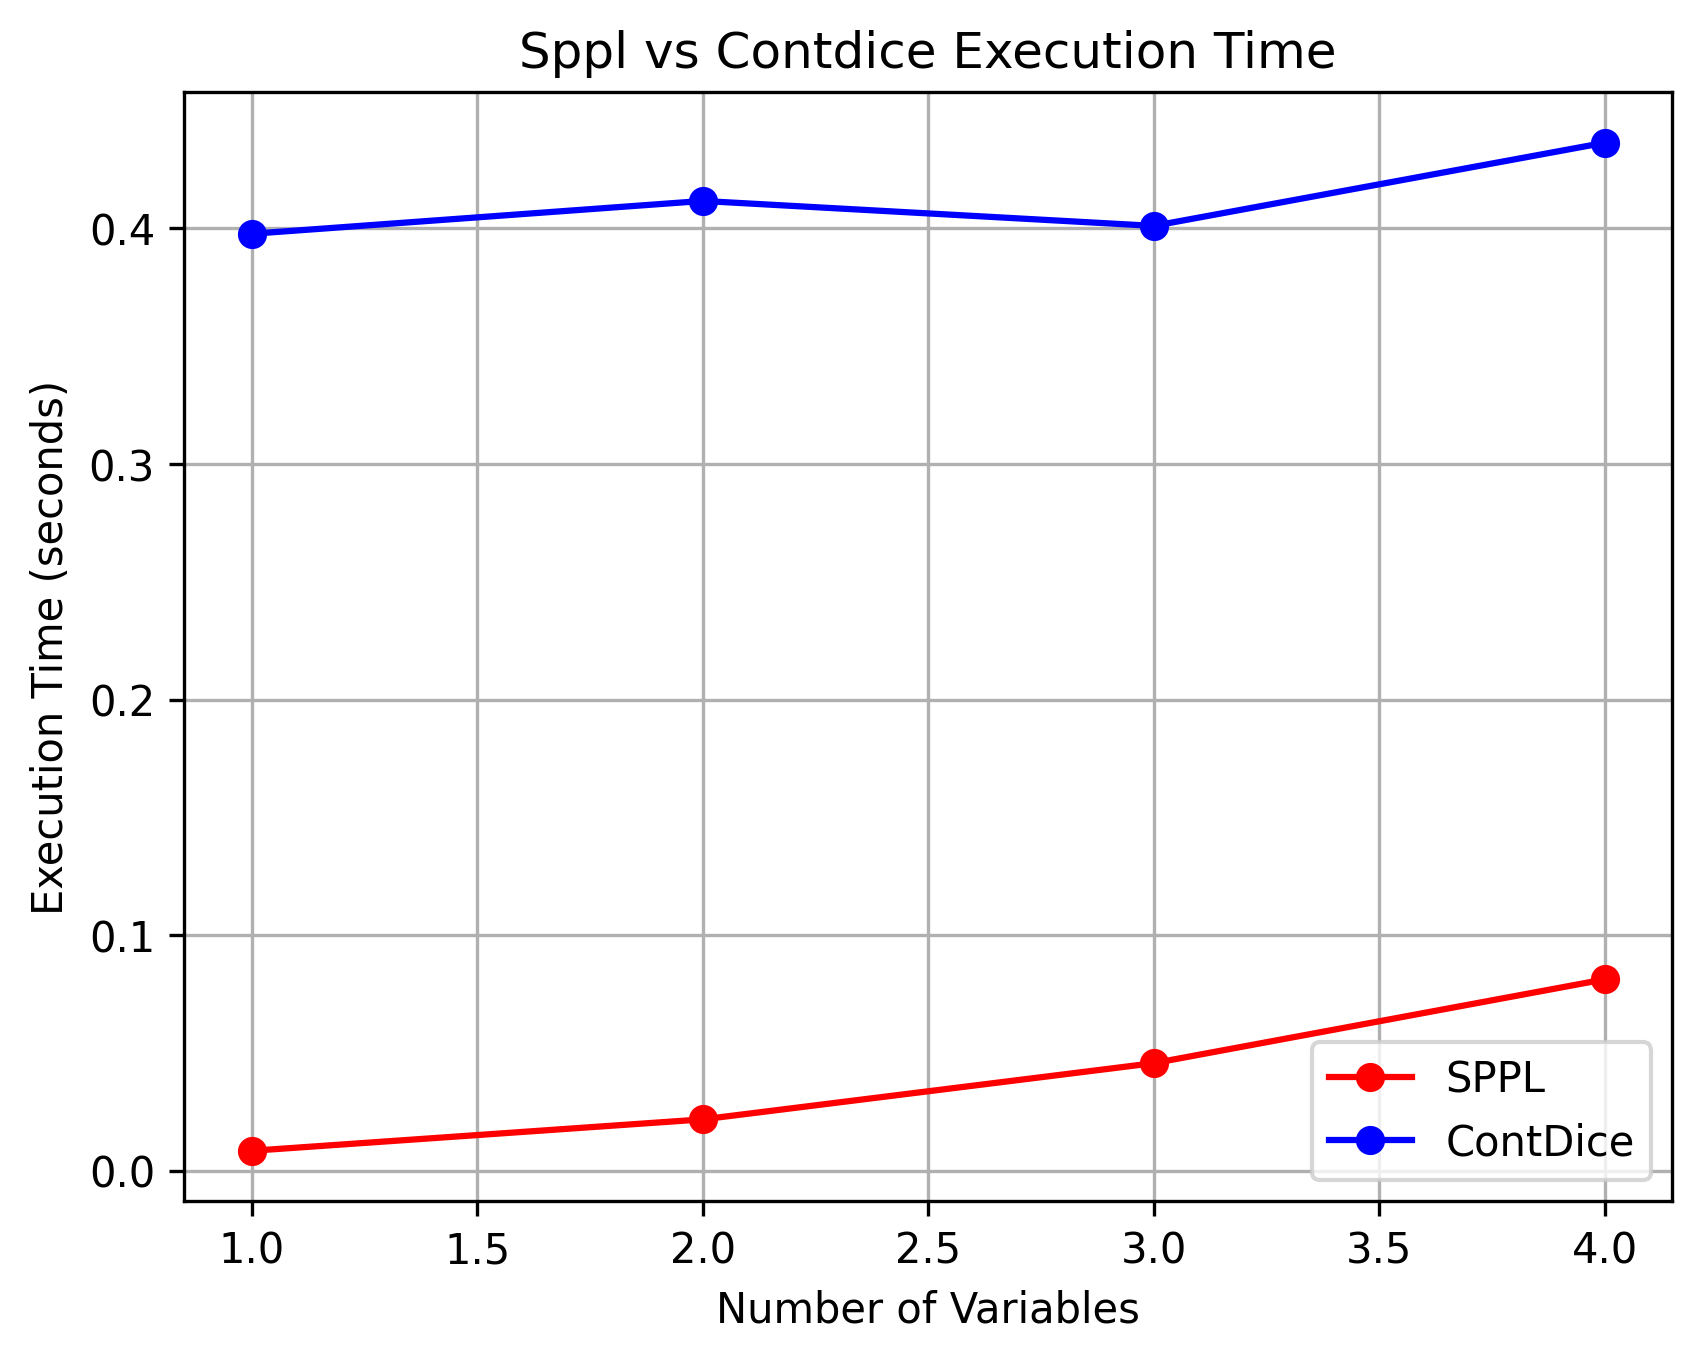
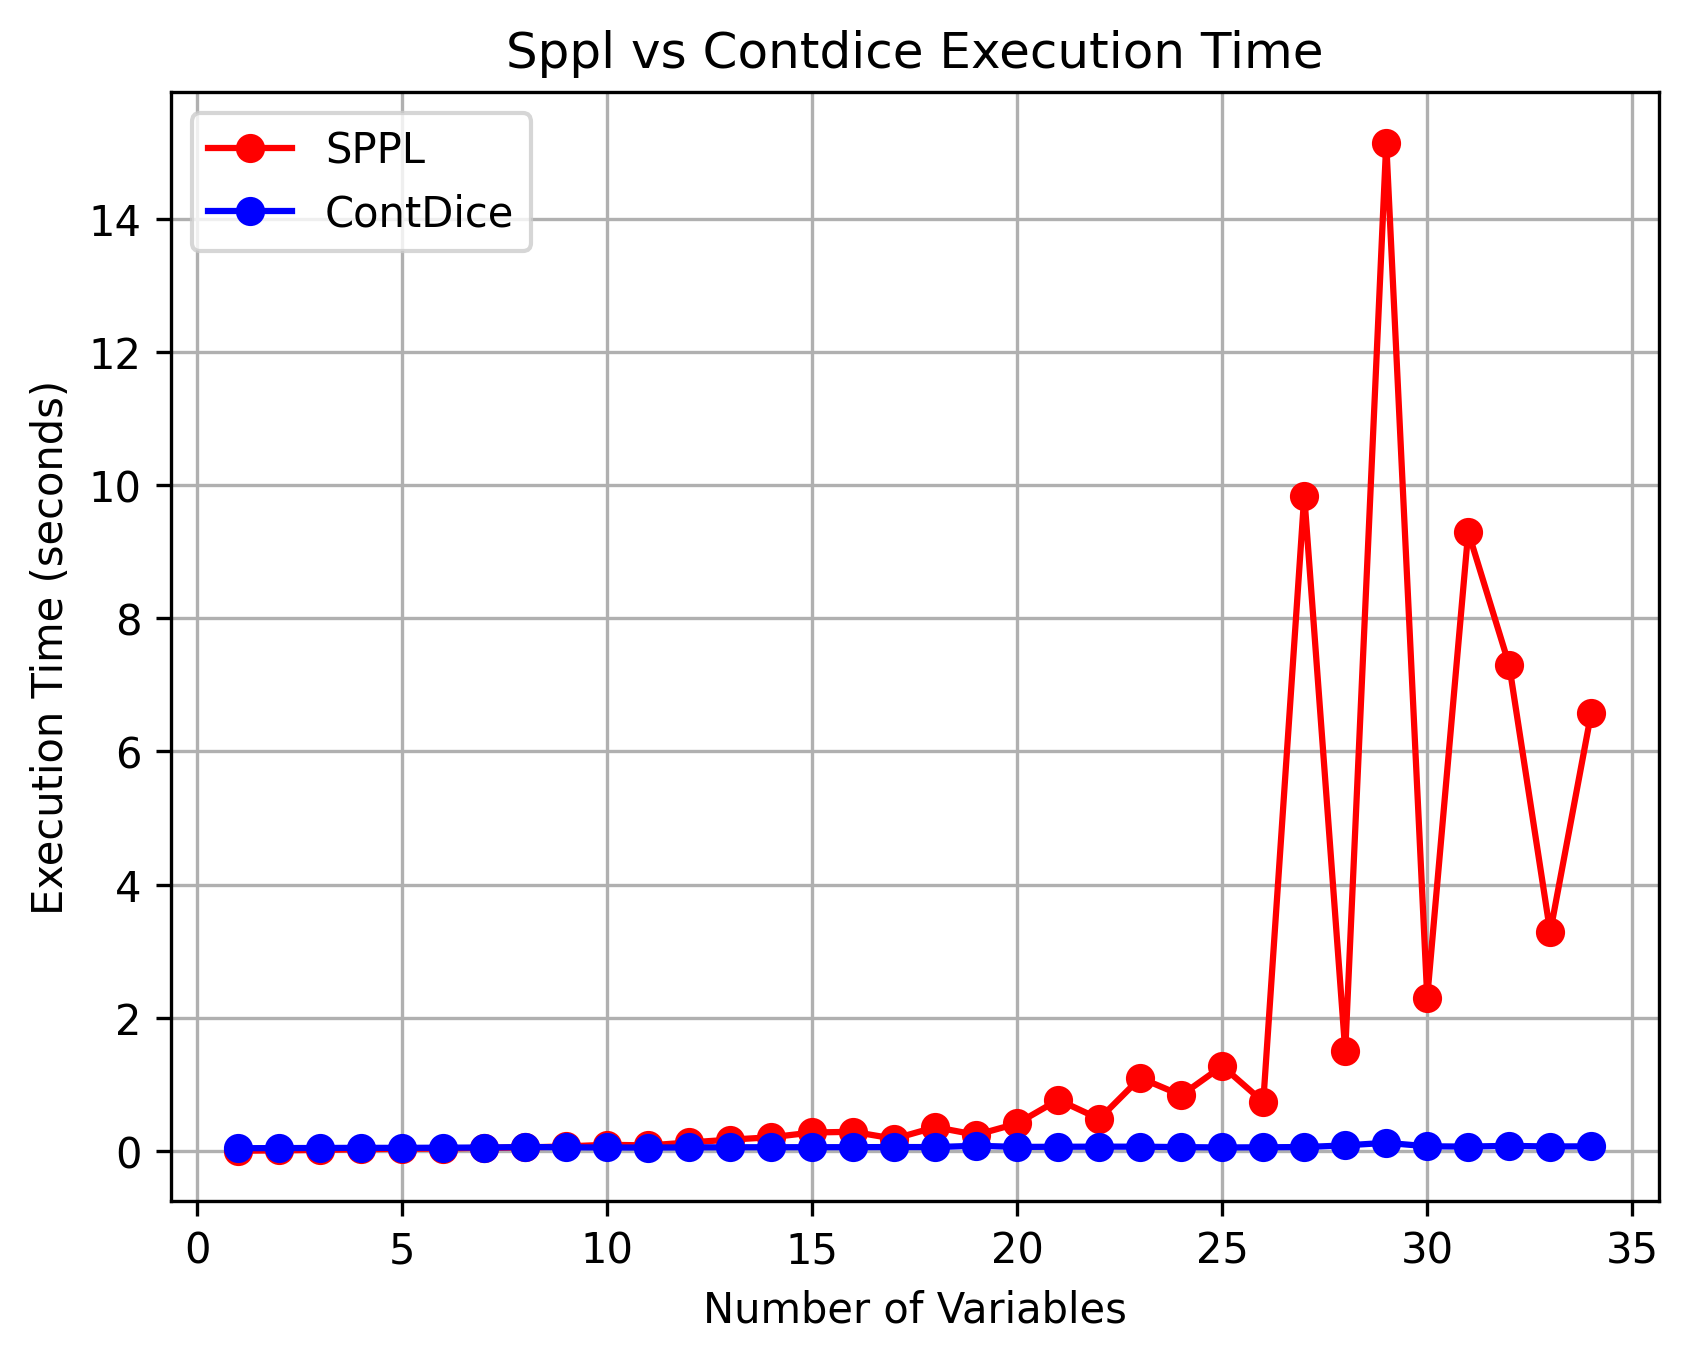
Generate programs with randomly chosen variables

diff --git a/benchmarks/parametrize.py b/benchmarks/parametrize.py
@@ -6,10 +6,12 @@ from sppl.compilers.sppl_to_python import SPPL_Compiler
 
 from pathlib import Path
 import time
+import os
 import subprocess
+import string
 import matplotlib.pyplot as plt
 
-from generator import gen_expr
+from generator import *
 
 
 # ===== for SPPL =====
@@ -121,6 +123,25 @@ def build_conditional_independent_contdice(variables):
     code.append(f"{last_var} < 0.5")
     return "\n".join(code)
 
+def build_conditional_random_dependent_contdice(variables):
+    code = []
+    counter = 1
+
+    for idx, var in enumerate(variables):
+        if idx == 0:
+            code.append(f"let {var} = uniform(0,{counter}) in")
+            counter += 1
+        else:
+            # Choose a random previous variable index
+            rand_idx = random.randint(0, idx - 1)
+            prev = variables[rand_idx]
+            code.append(f"let {var} = if {prev} < 0.5 then uniform(0,{counter}) else uniform(0,{counter + 1}) in")
+            counter += 2
+
+    last_var = variables[-1]
+    code.append(f"{last_var} < 0.5")
+    return "\n".join(code)
+
 
 # ===== Parametrize =====
 # program = build_conditional_dependent_contdice(['a', 'b', 'c'])
@@ -129,18 +150,34 @@ def build_conditional_independent_contdice(variables):
 # program = build_conditional_dependent_sppl(['a','b','c','d'])
 # print(program)
 
-def generate_variable_list_up_to(end_letter):
-    return [chr(c) for c in range(ord('a'), ord(end_letter) + 1)]
+# def generate_variable_list_up_to(end_letter):
+#     return [chr(c) for c in range(ord('a'), ord(end_letter) + 1)]
+
+def generate_variable_list_up_to(n):
+    letters = string.ascii_lowercase
+    result = []
+    i = 0
+    while len(result) < n:
+        for ch in letters:
+            result.append(ch * (i + 1))
+            if len(result) == n:
+                break
+        i += 1
+    return result
 
 def main():
     # Lists to collect timings  
     sppl_times = []
     contdice_times = []
     num_vars = []
+    original_dir = os.getcwd()
 
-    for i in range(1, 100):
+    for i in range(1, 35):
+        var_list = generate_variable_list_up_to(i)
+        num_vars.append(len(var_list))  # Track how many variables
+        
         # --- CONTDICE ---
-        program_contdice = gen_expr(i)
+        program_contdice = build_conditional_random_dependent_contdice(var_list)
         path = Path("parametrize.cdice")
         path.write_text(program_contdice)
         command = ["./run_contdice.sh", str(path)]
@@ -150,6 +187,26 @@ def main():
         contdice_times.append(duration)
         print(f"contdice time {duration}")
         output = result.stdout.decode('utf-8')
+        print(output)
+        
+        # --- SPPL ---
+        os.chdir("./cdice")
+        command = ["dune", "exec", "--", "bin/main.exe", "--to-sppl", "../parametrize.cdice"]
+        result = subprocess.run(command, shell=False, check=True, stdout=subprocess.PIPE, stderr=subprocess.DEVNULL)
+        output = result.stdout.decode('utf-8')
+        os.chdir(original_dir)
+        start = time.time()
+        compiler = SPPL_Compiler(f'''{output}''')
+        namespace = compiler.execute_module()
+        var = f"v{len(var_list)}"
+        result_var = Id(var)
+        event = (result_var < 0.5)  
+        output = namespace.model.prob(event)
+        duration = time.time() - start
+        sppl_times.append(duration)
+        print(f"sppl time {duration}")
+        print(output)
+        
         
     '''
     end_letter = 'y'
@@ -183,6 +240,7 @@ def main():
         contdice_times.append(duration)
         print(f"contdice time {duration}")
         output = result.stdout.decode('utf-8')
+    '''
 
     # --- Plotting ---
     plt.plot(num_vars, sppl_times, label="SPPL", color="red", marker="o")
@@ -195,7 +253,6 @@ def main():
     plt.grid(True)
     plt.savefig("timings.png", dpi=300, bbox_inches="tight")
     plt.show()
-    '''
 
 if __name__ == "__main__":
     main()

diff --git a/gen.py b/gen.py
@@ -1,3 +1,5 @@
+import random
+
 def build_conditional_dependent_contdice(variables):
     code = []
     # Variable bindings
@@ -103,5 +105,26 @@ def build_conditional_independent_sppl(vars):
         counter += 1
     return "\n".join(lines)
 
-program = build_conditional_dependent_contdice(['a', 'b','c'])
+
+def build_conditional_random_dependent_contdice(variables):
+    code = []
+    counter = 1
+
+    for idx, var in enumerate(variables):
+        if idx == 0:
+            code.append(f"let {var} = uniform(0,{counter}) in")
+            counter += 1
+        else:
+            # Choose a random previous variable index
+            rand_idx = random.randint(0, idx - 1)
+            prev = variables[rand_idx]
+            code.append(f"let {var} = if {prev} < 0.5 then uniform(0,{counter}) else uniform(0,{counter + 1}) in")
+            counter += 2
+
+    last_var = variables[-1]
+    code.append(f"{last_var} < 0.5")
+    return "\n".join(code)
+
+
+program = build_conditional_random_dependent_contdice(['a', 'b','c','d','e'])
 print(program)
